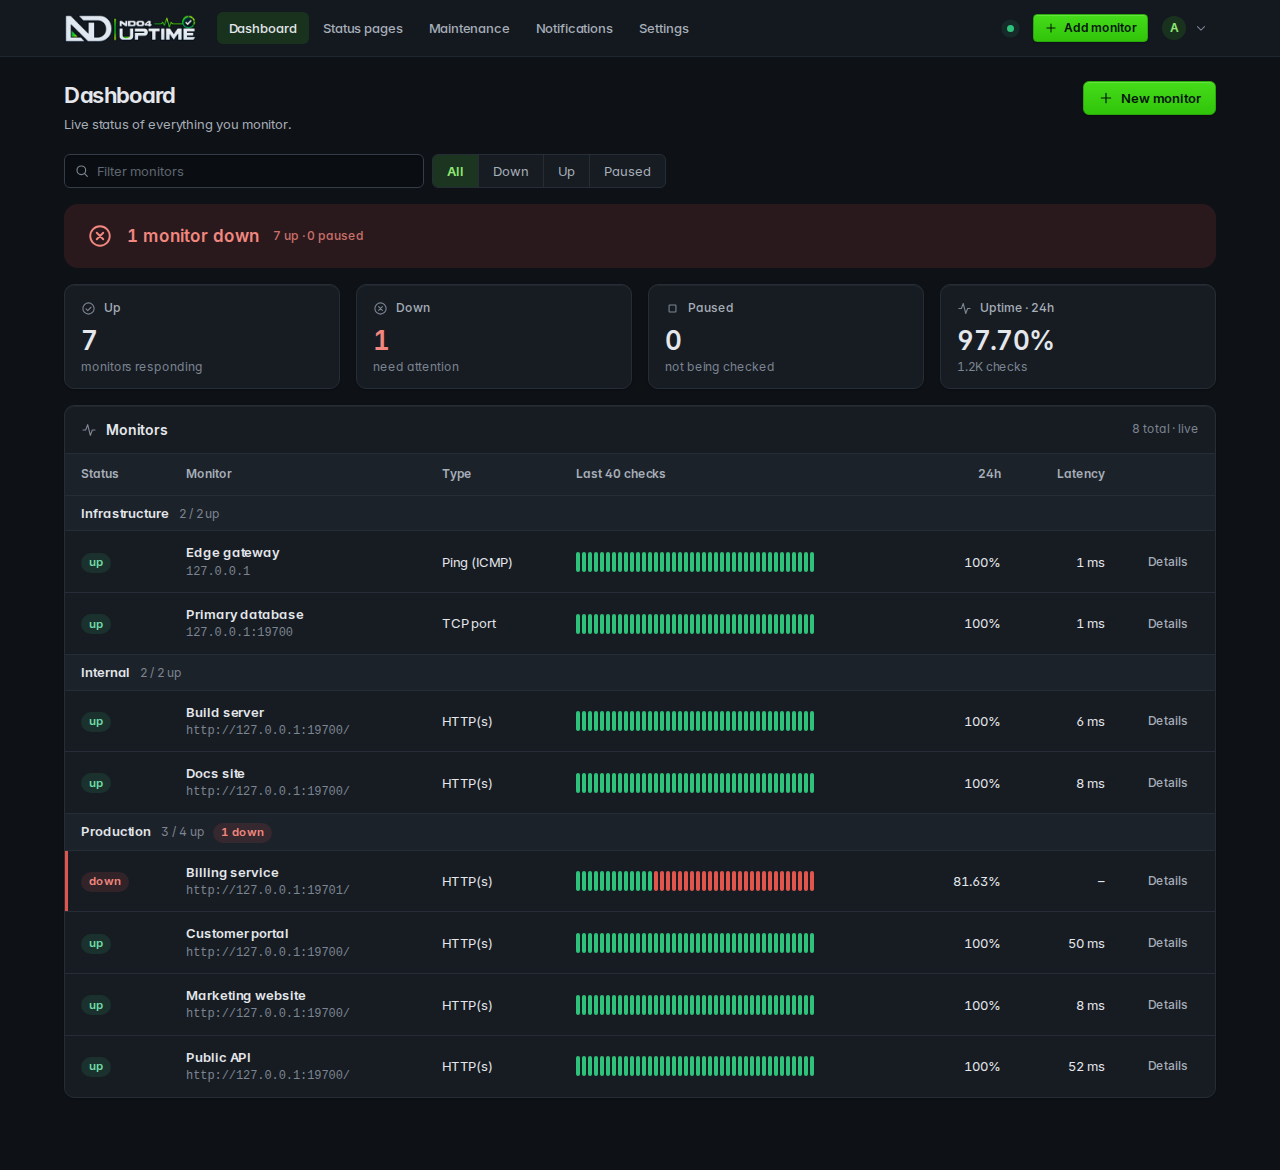
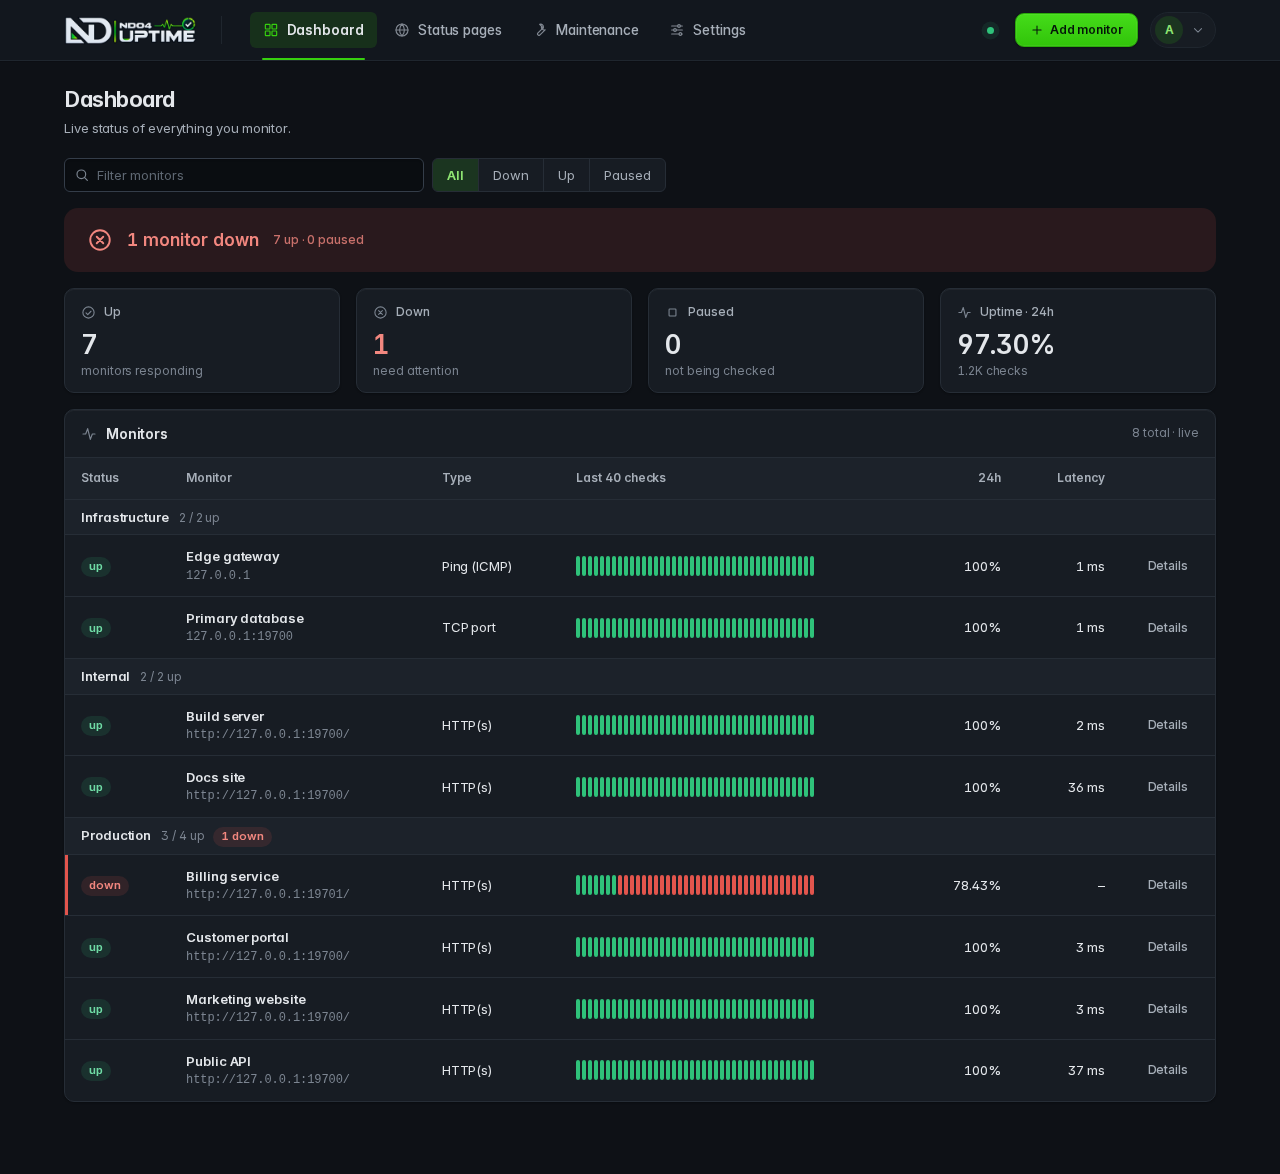
1.10.1: modern top bar, Notifications moved into Settings, no duplicate New monitor button

diff --git a/static/nav.css b/static/nav.css
@@ -26,3 +26,25 @@
 .ph{margin-bottom:20px}
 .ph h1{font-size:22px}
 @media(max-width:900px){.nav-links{display:none}.nav-mob{display:block}.nav-add span{display:none}.nav-in{padding:0 16px;gap:12px}.page{padding:18px 16px 48px}}
+
+/* ---- v1.10.1 modern bar ---- */
+.nav{background:color-mix(in srgb,var(--chrome) 82%,transparent);-webkit-backdrop-filter:saturate(1.4) blur(14px);backdrop-filter:saturate(1.4) blur(14px);box-shadow:0 1px 0 rgba(0,0,0,.12)}
+.nav-in{height:60px;gap:28px}
+.nav-brand{padding-right:24px;border-right:1px solid var(--chrome-line);height:28px}
+.nav-links{gap:4px}
+.nl{position:relative;gap:8px;height:36px;padding:0 13px;font-size:13.5px;transition:background .15s,color .15s}
+.nl .ic{width:16px;height:16px;opacity:.75;flex:none}
+.nl:hover .ic{opacity:1}
+.nl[aria-current=page]{background:var(--primary-soft);color:var(--text);font-weight:600}
+.nl[aria-current=page] .ic{color:var(--primary);opacity:1}
+.nl[aria-current=page]::after{content:"";position:absolute;left:12px;right:12px;bottom:-12px;height:2px;border-radius:2px;background:var(--primary)}
+.nav-add{height:34px;padding:0 14px;border-radius:9px;font-weight:600;box-shadow:0 1px 2px rgba(0,0,0,.25),0 0 0 1px rgba(255,255,255,.06) inset}
+.nav-right{gap:12px}
+.nav .tb-user{height:36px;padding:0 10px 0 4px;border:1px solid var(--chrome-line);border-radius:18px;background:var(--surface)}
+.nav .tb-user:hover,.nav .menu[open]>.tb-user{border-color:var(--line-strong)}
+.nav .tb-avatar{width:28px;height:28px}
+.nav .menu-pop{border-radius:12px;top:calc(100% + 10px);padding:8px}
+.nav .menu-head,.nav .menu-item{border-radius:8px}
+.nav-mob .tb-btn{height:36px;width:36px;justify-content:center;border:1px solid var(--chrome-line);border-radius:10px;background:var(--surface)}
+.nav-mob .nl[aria-current=page]::after{display:none}
+@media(max-width:900px){.nav-in{height:56px}.nav-brand{border:0;padding:0}}

diff --git a/static/admin.js b/static/admin.js
@@ -59,7 +59,7 @@
 
   /* settings: one section at a time (all stay visible without JavaScript) */
   var tabs = document.querySelector(".stabs");
-  if (tabs) {
+  if (tabs && document.querySelector(".sg[id]")) {
     var groups = document.querySelectorAll(".sg[id]");
     var show = function (id) {
       groups.forEach(function (g) { g.classList.toggle("off", g.id !== id); });
@@ -73,7 +73,7 @@
     show(start);
     tabs.addEventListener("click", function (ev) {
       var a = ev.target.closest("a");
-      if (!a) return;
+      if (!a || a.getAttribute("href").charAt(0) !== "#") return;
       ev.preventDefault();
       var id = a.getAttribute("href").slice(1);
       show(id);

diff --git a/static/ext.css b/static/ext.css
@@ -219,3 +219,6 @@ html[data-theme="light"] code { color: var(--text); }
 .sp-notice{border-radius:14px;padding:14px 20px}
 .sp-foot{margin-top:32px}
 @media (max-width:520px){.sp{padding-top:28px}.sp-banner{padding:14px 16px;font-size:15px}.sp-row,.sp-card-h,.sp-inc li{padding-left:14px;padding-right:14px}.sp-row .hbar i:nth-child(-n+10){display:none}}
+
+.stabs-static{display:flex}
+.stabs a.on{background:var(--primary-soft);color:var(--text)}

diff --git a/src/view.rs b/src/view.rs
@@ -110,20 +110,37 @@ pub fn msg(kind: &str, text: &str, close: bool) -> Markup {
     }
 }
 
-fn nav_item(href: &str, label: &str, on: bool) -> Markup {
+fn nav_item(href: &str, icon: &str, label: &str, on: bool) -> Markup {
     html! {
-        a.nl href=(href) aria-current=[on.then_some("page")] { (label) }
+        a.nl href=(href) aria-current=[on.then_some("page")] { (ic(icon)) span { (label) } }
     }
 }
 
 /// Main navigation, shared by the bar and the phone menu.
 fn nav_links(a: &str) -> Markup {
     html! {
-        (nav_item("/", "Dashboard", a == "dashboard"))
-        (nav_item("/pages", "Status pages", a == "pages"))
-        (nav_item("/maintenance", "Maintenance", a == "maintenance"))
-        (nav_item("/webhooks", "Notifications", a == "webhooks"))
-        (nav_item("/settings", "Settings", a == "settings"))
+        (nav_item("/", "grid", "Dashboard", a == "dashboard"))
+        (nav_item("/pages", "globe", "Status pages", a == "pages"))
+        (nav_item("/maintenance", "tool", "Maintenance", a == "maintenance"))
+        (nav_item("/settings", "sliders", "Settings", a == "settings" || a == "webhooks"))
+    }
+}
+
+/// Settings section bar. On the Notifications pages every tab is a link back into Settings.
+pub fn settings_tabs(away: bool) -> Markup {
+    let h = |id: &str| {
+        if away {
+            format!("/settings#sg-{id}")
+        } else {
+            format!("#sg-{id}")
+        }
+    };
+    html! {
+        nav class=(if away { "stabs stabs-static" } else { "stabs" }) aria-label="Settings sections" {
+            @for (id, l) in [("general", "General"), ("security", "Security"), ("alerts", "Alerts")] { a href=(h(id)) { (l) } }
+            a href="/webhooks" class=(if away { "on" } else { "" }) { "Notifications" }
+            @for (id, l) in [("data", "Data"), ("connect", "Connectivity"), ("ai", "AI"), ("about", "About")] { a href=(h(id)) { (l) } }
+        }
     }
 }
 
@@ -199,7 +216,7 @@ pub fn layout(p: Page, body: Markup) -> Markup {
                                 (ic("chevron-down"))
                             }
                             div.menu-pop {
-                                div.menu-head { strong { "Administrator" } span.faint.small { "v" (VERSION) } }
+                                div.menu-head { strong { "Administrator" } span.faint.small { "NDO4Uptime v" (VERSION) } }
                                 div.theme-pick role="group" aria-label="Theme" {
                                     button type="button" class="js-theme" data-theme="light" { "Light" }
                                     button type="button" class="js-theme" data-theme="dark" { "Dark" }
@@ -225,6 +242,7 @@ pub fn layout(p: Page, body: Markup) -> Markup {
                     div.toolbar { (p.actions) }
                 }
                 @if let Some((k, t)) = p.flash { div.msgs { (msg(k, t, true)) } }
+                @if p.active == "webhooks" { (settings_tabs(true)) }
                 (body)
             }
         }

diff --git a/src/web.rs b/src/web.rs
@@ -387,7 +387,7 @@ pub async fn dashboard(State(app): S, a: Auth, Query(q): Q) -> Response {
             flash: flash_of(&q),
             parent: None,
             refresh: false,
-            actions: html! { a.btn.btn-primary href="/monitors/new" { (ic("plus")) "New monitor" } },
+            actions: html! {},
         },
         body,
     ))
@@ -1336,10 +1336,7 @@ fn settings_view(
             actions: html! {},
         },
         html! {
-            nav.stabs aria-label="Settings sections" {
-                a href="#sg-general" { "General" } a href="#sg-security" { "Security" } a href="#sg-alerts" { "Alerts" }
-                a href="#sg-data" { "Data" } a href="#sg-connect" { "Connectivity" } a href="#sg-ai" { "AI" } a href="#sg-about" { "About" }
-            }
+            (settings_tabs(false))
             div.sg id="sg-general" {
                 h3.sg-t { "General" }
                 div.cols.cols-2 {

diff --git a/CHANGELOG.md b/CHANGELOG.md
@@ -1,4 +1,8 @@
 # Changelog
+## 1.10.1
+- **Modern top bar.** Taller translucent bar with icons, a clear active indicator, a pill account menu and a refined "Add monitor" button.
+- **Notifications now live in Settings.** The top bar no longer has a separate entry; Settings has a Notifications tab and the channel pages keep the Settings tab bar and highlight.
+- The dashboard header no longer repeats the "New monitor" button (the top bar has it).
 ## 1.10.0
 - **New status page design.** A larger overall banner with a "x of y systems up" count, one card per group, and one row per monitor: state dot and badge, a full-width history bar (the last 40 checks) and the 24 hour and 30 day uptime underneath. Incident history is a compact list with ongoing/resolved badges. Works in light, dark and auto themes and on phones; still one self-contained document with a hashed CSP.
 - Admin pages now send a well-formed document (the closing `</html>` used to appear before `<body>`).
